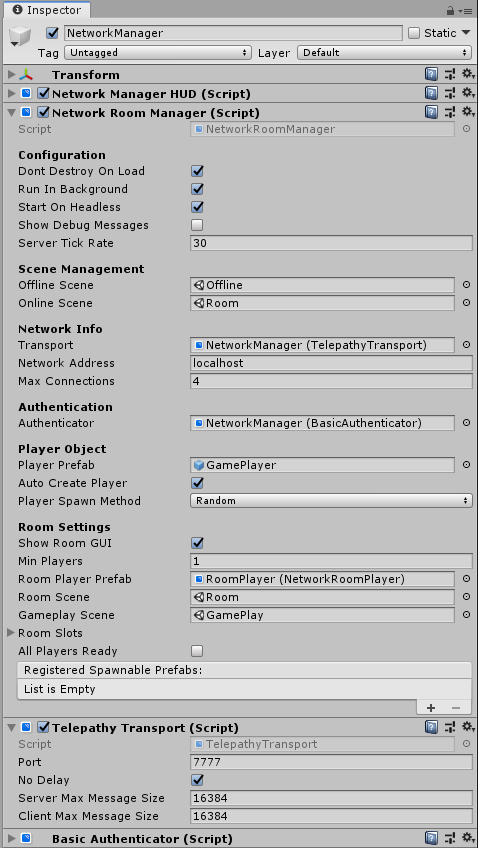
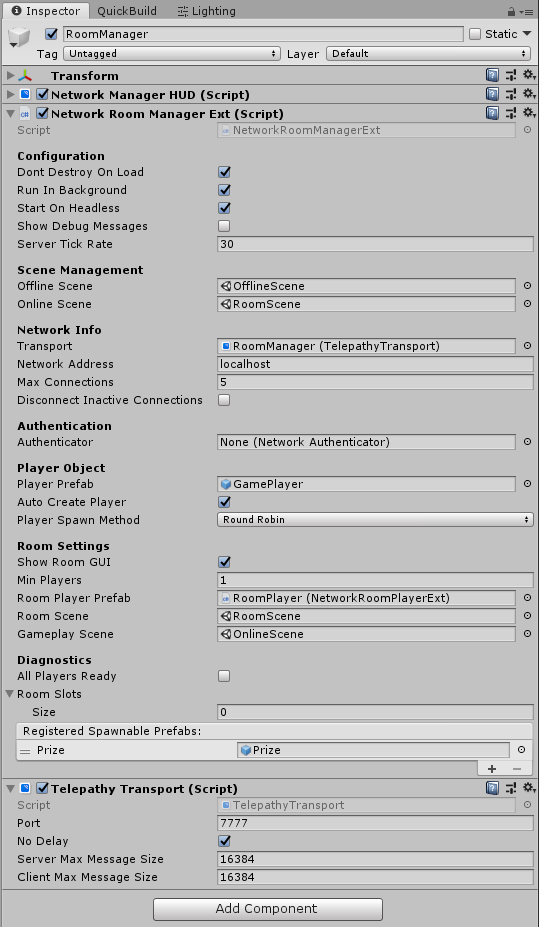
doc: Updated docs

Changed region(s): [[0.0, 0.0, 1.0, 1.0]]

diff --git a/doc/General/ChangeLog.md b/doc/General/ChangeLog.md
@@ -1,6 +1,6 @@
 # Change Log
 
-**Mirror is published to the Asset Store at the start of every month, unless some critical issue causes a delay.**
+**Mirror is published to the [Asset Store](https://assetstore.unity.com/packages/tools/network/mirror-129321) at the start of every month, unless some critical issue causes a delay.**
 
 Mirror uses semantic versioning, and the versions shown here are those that were published to the Asset Store, and occasionally major version bumps happen mid-month between store submissions and are therefore not individually shown here.
 
@@ -9,6 +9,7 @@ Mirror uses semantic versioning, and the versions shown here are those that were
 - Added: [SyncLists](../Guides/Sync/SyncLists.md) now have Find and FindAll functions.
 - Added: NetworkBehaviour now has OnStopServer and OnStopClient virtual methods
 - Added: Weaver now supports custom Reader & Writer for types in other assemblies
+- Added: Network Manager now has an optional setting to check for and disconnect remote connections that have gone silent
 - Fixed: NetworkAnimator no longer double-fires SetTrigger / ResetTrigger on the host client
 - Fixed: Destroy is no longer invoked twice on the server for the player object.
 - Changed: NetworkBehaviour: `OnNetworkDestroy` was renamed to `OnStopClient`.
